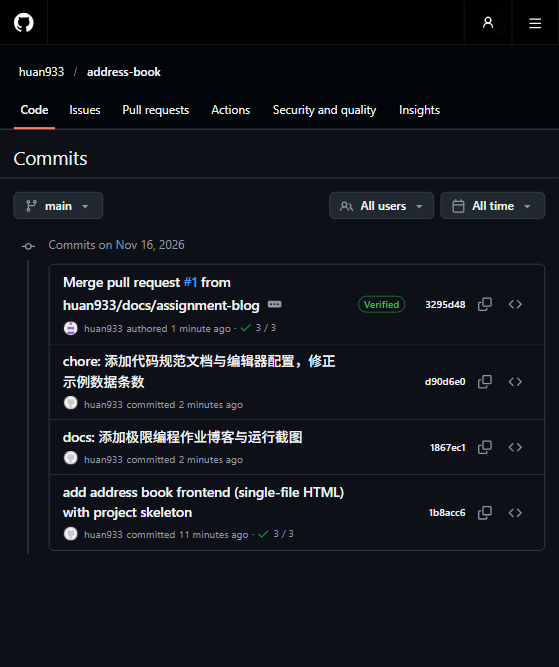
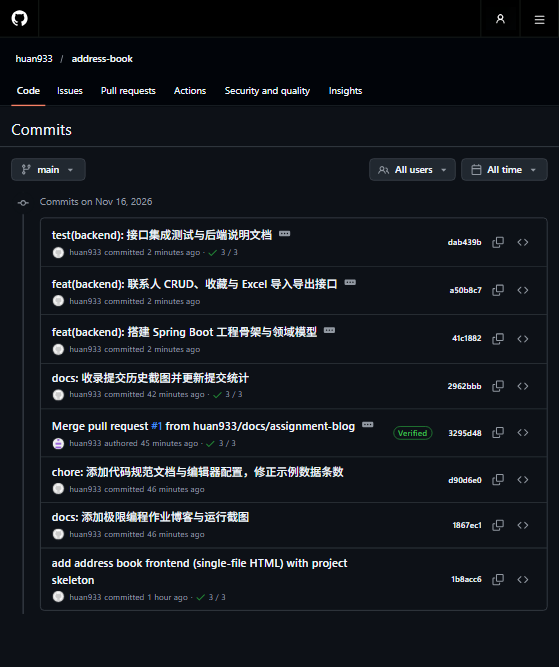
docs: 更新提交历史截图，补充后端模块与验证记录
截图刷新为 8 次提交；第 3 节统计与实际一致；新增 4.6 节记录 Spring Boot 可选扩展、接口清单与两层验证结果。

diff --git a/docs/极限编程作业博客.md b/docs/极限编程作业博客.md
@@ -21,6 +21,7 @@
   - [4.3 一个联系人多个联系方式（10 分）](#43-一个联系人多个联系方式10-分)
   - [4.4 导入与导出（25 分）](#44-导入与导出25-分)
   - [4.5 数据层、容错与安全](#45-数据层容错与安全)
+  - [4.6 可选扩展：Spring Boot 后端](#46-可选扩展spring-boot-后端)
 - [5. 运行截图与演示视频](#5-运行截图与演示视频)
 - [6. 协作中遇到的困难与解决](#6-协作中遇到的困难与解决)
 - [7. PSP 表](#7-psp-表)
@@ -78,13 +79,13 @@
 
 ![GitHub 提交历史](images/commit-history.png)
 
-> 截图时间：2026-11-16，`main` 分支合并 PR 之后的状态（画面中可见 4 次提交；其后为收录这张截图另有第 5 次文档提交）。
+> 截图时间：2026-11-16，`main` 分支收录后端 3 次提交之后的完整历史（当前共 8 次提交）。
 
 | 贡献者 | 提交次数 | 说明 |
 | --- | --- | --- |
-| huan933 | 5 | 初始项目骨架（1 次）、博客与运行截图（1 次）、代码规范文档（1 次）、PR 合并（1 次），以及收录本截图的文档提交（1 次） |
+| huan933 | 8 | 初始项目骨架（1 次）、博客与运行截图（1 次）、代码规范文档（1 次）、PR 合并（1 次）、收录提交截图（1 次），以及后端骨架 / 接口 / 测试文档（3 次） |
 | 【待填：队友 GitHub 账号】 | 【待填】 | 【待填：负责模块对应的提交；若队友未直接提交，请如实填 0 并说明由 huan933 代为提交】 |
-| **合计** | — | 满足作业要求（提交次数 ≥ 3） |
+| **合计** | 8 | 满足作业要求（提交次数 ≥ 3） |
 
 **主要提交节点**
 
@@ -95,6 +96,9 @@
 | `d90d6e0` | 代码规范文档、`.editorconfig`，修正 README 示例数据条数 |
 | `3295d48` | 合并 PR #1（`docs/assignment-blog` → `main`） |
 | 标签 `v1.0.0` | 打标签并发布 Release（可发布版本） |
+| `41c1882` | 后端：Spring Boot 工程骨架与领域模型（contact / contact_method 一对多） |
+| `a50b8c7` | 后端：联系人 CRUD、收藏开关、Excel 导入导出接口 |
+| `dab439b` | 后端：6 个接口集成测试与 `backend/README.md` |
 
 ---
 
@@ -233,6 +237,43 @@ function classify(h) {
 | 同名联系人 | 导入时按姓名去重；手动新增不做限制（允许同名不同人） |
 | 全局污染 | 全部逻辑在 `(function(){ 'use strict'; ... })()` 内，不向 `window` 挂任何变量 |
 
+### 4.6 可选扩展：Spring Boot 后端
+
+作业评分项全部落在前端，这一节记录的是**不属于评分点的可选扩展**：把同一套数据模型搬到服务端，
+验证「前端单文件」与「前后端分离」两种形态共用一份契约。**前端页面保持不动**——所有功能仍可双击
+`frontend/通讯录.html` 直接使用，后端只是仓库里可独立启动的模块。
+
+- 技术栈：Java 17 + Spring Boot 3.3.5 + Spring Data JPA + H2（文件模式，免装数据库）+ Apache POI 5.2.5。
+- 数据模型与前端 `methods[]` 对齐，落成两张表：`contact`（姓名 / 单位 / 备注 / 说明 / 收藏 / 时间戳）与
+  `contact_method`（`type` / `value`，一对多，删联系人级联删联系方式）。
+- Excel 契约复用 4.4 节的 12 列 `HEADERS`，导出与导入在服务端重新实现一遍，保证「导出的文件仍能回灌」。
+
+| 接口 | 作用 |
+| --- | --- |
+| `GET /api/contacts?favorite=&q=` | 列表；收藏过滤 + 模糊搜索（姓名 / 单位 / 备注 / 所有联系方式） |
+| `POST /api/contacts`、`PUT /api/contacts/{id}`、`DELETE /api/contacts/{id}` | 增删改；联系方式整体替换，配合 `orphanRemoval` 自动清理旧行 |
+| `POST /api/contacts/{id}/favorite` | 收藏开关（一次调用取反） |
+| `GET /api/contacts/export` | 输出 xlsx，文件名 `通讯录_yyyyMMdd_HHmm.xlsx` |
+| `POST /api/contacts/import` | 收 xlsx / xls / csv，返回 `{added, duplicates, invalid}` |
+| `GET /api/contacts/health` | 健康检查 |
+
+**验证方式（分两层）**：
+
+1. `mvn test`：6 个 MockMvc 用例跑在内存 H2 上，覆盖新增、无联系方式拒绝、收藏切换、搜索、导出、
+   导入去重、删除后 404；
+2. 打包成 jar 真实启动后做 18 项在线冒烟，全部通过——包括中文搜索、导出文件名中文编码、
+   导出表头 12 列顺序与 4.4 节契约逐字一致、把自己导出的文件回灌判为重名、CSV 导入落库收藏标记、
+   无联系方式返回 400、不存在 id 返回 404、删除返回 204 且随后 404。
+
+**踩到的两个坑**（都已修）：
+
+| 坑 | 现象 | 解决 |
+| --- | --- | --- |
+| 字段名 `value` 撞上 H2 保留字 | 建表语句被 H2 拒绝，启动即报 `Table "CONTACT_METHOD" not found` | 列名改 `contact_value`，Java 字段与 JSON 仍是 `value`，对外契约不变 |
+| `AUTO_SERVER=TRUE` 不能与 `DB_CLOSE_ON_EXIT=FALSE` 同用 | 启动时报 `Feature not supported: "AUTO_SERVER=TRUE && DB_CLOSE_ON_EXIT=FALSE"` | 连接串只保留 `AUTO_SERVER=TRUE` |
+
+> 后端启动需要 JDK 17 与 Maven，说明见 [backend/README.md](../backend/README.md)。
+
 ---
 
 ## 5. 运行截图与演示视频
@@ -325,6 +366,8 @@ function classify(h) {
 | 云服务器部署（可选） | +15 | ⚠ 部分 | 目前部署在 **GitHub Pages**（云托管静态站点，非 ECS 云服务器）。若老师严格要求华为云/阿里云 ECS，需另行部署 |
 | 仓库提交 ≥ 3 次 | — | ✅ | 第 3 节 |
 | 发布版本 + 发起 PR | — | ✅ | Release `v1.0.0` + Pull Request |
+
+> 补充：`backend/` 下的 Spring Boot 模块是评分点之外的可选扩展（见 4.6 节），不影响上述任何评分项的判定。
 
 ---
 
